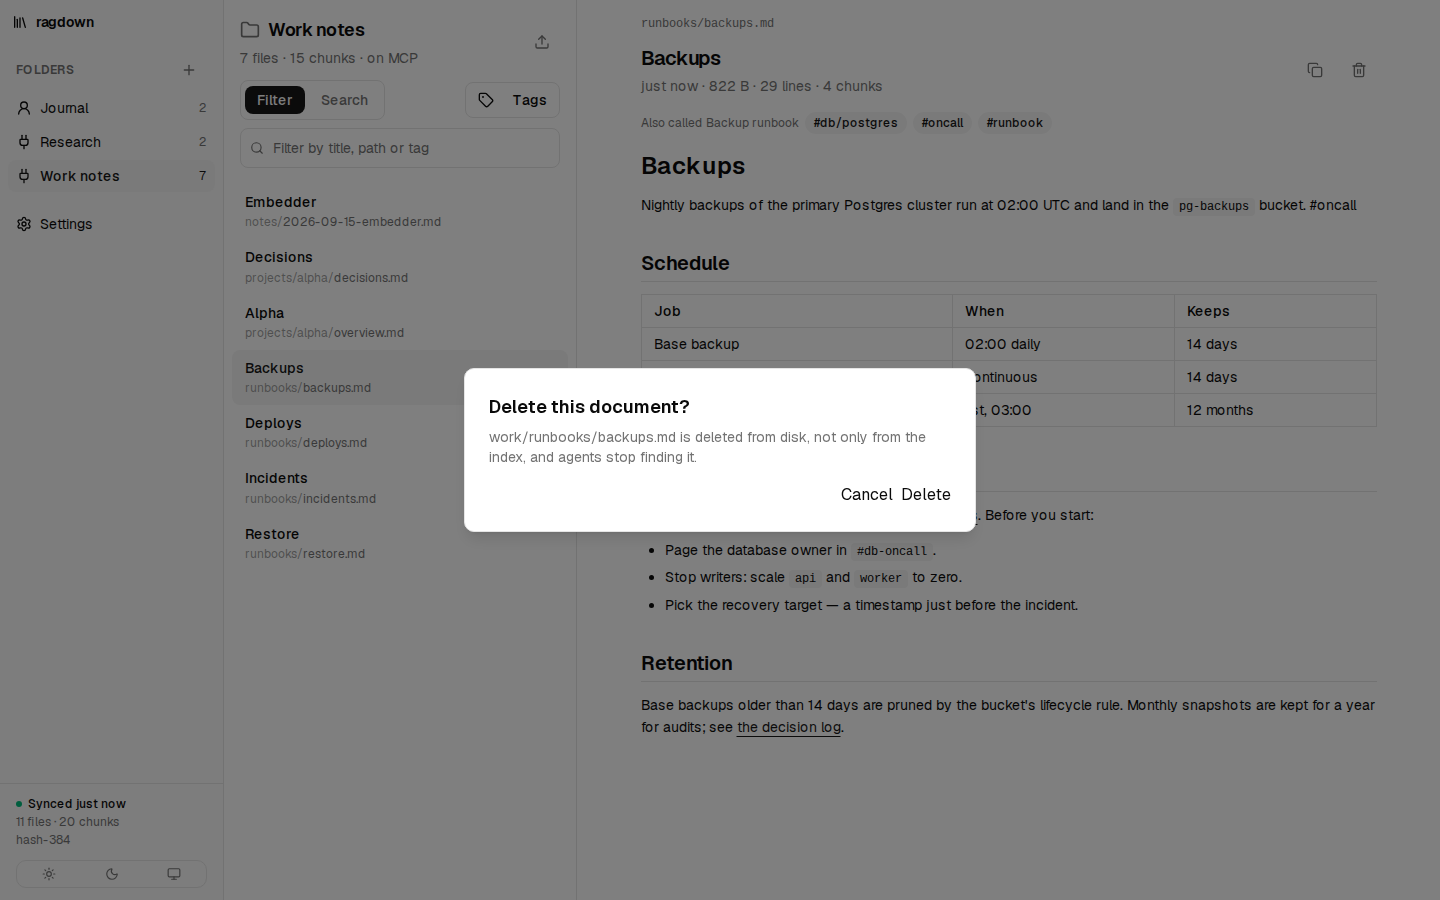
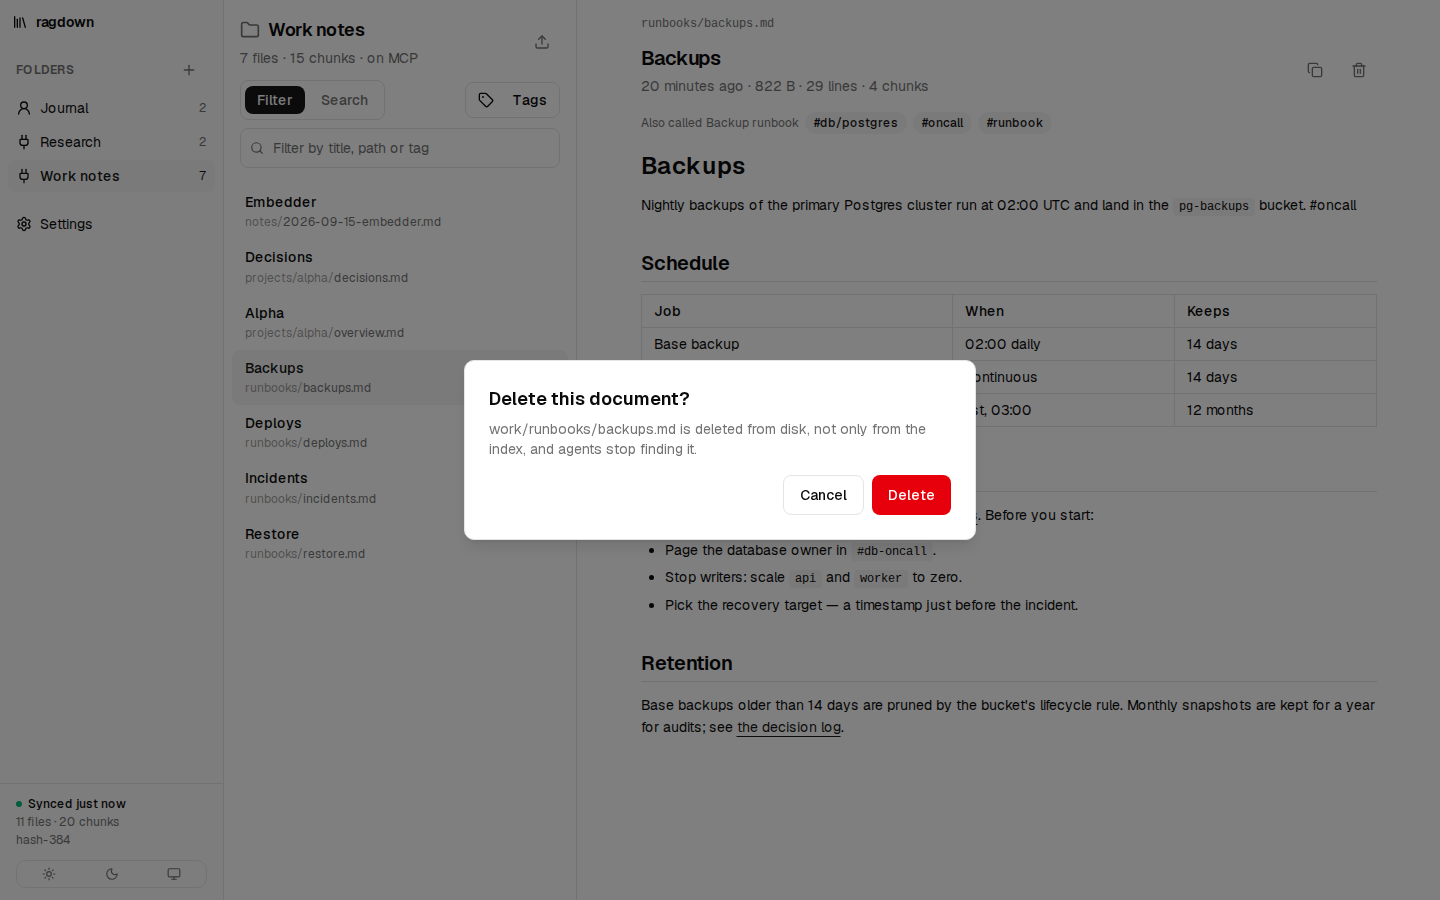
fix(web): stack the upload drop zone's text, and style confirm dialog buttons
The file picker is re-added from the cubeui registry, whose drop zone is a
flex column; the old copy had `flex-col` without `flex`, so the label and
hint ran together on one line.

Button's `asChild` branch handed Slot the icon-colour provider instead of
the caller's element, so the classes never reached it and the confirm
dialog's Cancel and Delete rendered as plain text. It now slots the
children directly. The same bug is still in cubeui's button.

Upload and delete screenshots on the site are retaken.

Changed region(s): [[0.3125, 0.3733, 0.6875, 0.5289], [0.3125, 0.5289, 0.6875, 0.6222], [0.4375, 0.0933, 0.625, 0.1244]]

diff --git a/web/src/components/ui/file-picker.tsx b/web/src/components/ui/file-picker.tsx
@@ -1,34 +1,98 @@
-import { useRef, useState } from "react";
-import type { FilePickerProps } from "@/components/ui/file-picker-base";
+/**
+ * Copied from `registry/ui/file-picker.web.tsx` by `scripts/rn2web`.
+ * Do not edit — edit the source and re-run `npm run compile`.
+ *
+ * This is level 4 of the plan: the item has a hand-written web half, so nothing was generated. The
+ * same passes still ran over it, and for a file already written against the DOM they find nothing
+ * to do beyond pointing its sibling imports at the web tree. That is deliberate — running one
+ * pipeline over the whole output tree is what guarantees a hand-written half and a compiled one
+ * speak the same prop vocabulary, instead of the two drifting where nobody is looking.
+ */
+
+/**
+ * The web file picker: a drop zone, or a button, over a hidden `<input type="file">`.
+ *
+ * Both are DOM-only, which is why this is a `.web.tsx`. The caller never sees a
+ * `File` — it gets the decoded text — so the calling screen stays shared.
+ */
+import { type DragEvent, type ReactNode, useRef, useState } from "react";
+import { buttonTextVariants, buttonVariants } from "@/components/ui/button";
+import {
+  acceptsFile,
+  type FilePickerButtonProps,
+  type FilePickerProps,
+} from "@/components/ui/file-picker-base";
 import { Upload } from "@/components/ui/icons";
 import { cn } from "@/lib/utils";
 
-export function FilePicker({ onPick, accept, label, hint }: FilePickerProps) {
+type PickOptions = Pick<FilePickerProps, "onPick" | "onPickMany" | "accept" | "multiple">;
+
+/**
+ * The picking, apart from the look: the hidden input, what a click and a drop
+ * do, and whether something is being dragged over. The zone and the button are
+ * two faces on this one hook, so they cannot disagree about what a pick is.
+ */
+function useFilePick({ onPick, onPickMany, accept, multiple }: PickOptions) {
   const inputRef = useRef<HTMLInputElement>(null);
   const [dragging, setDragging] = useState(false);
 
-  async function read(file: File) {
-    onPick(await file.text(), file.name);
+  async function take(list: FileList | null | undefined) {
+    // Copied before the first `await`: the input's `FileList` is emptied when its
+    // value is reset, and a drop's is gone once the event returns. `accept` is
+    // only advisory on the dialog and not applied to a drop at all, so it is
+    // applied here, to both.
+    const allowed = Array.from(list ?? []).filter((file) => acceptsFile(accept, file));
+    const files = multiple ? allowed : allowed.slice(0, 1);
+    if (files.length === 0) return;
+    const picked = await Promise.all(
+      files.map(async (file) => ({ text: await file.text(), name: file.name })),
+    );
+    if (onPickMany) onPickMany(picked);
+    else for (const file of picked) onPick?.(file.text, file.name);
   }
+
+  const trigger = {
+    type: "button" as const,
+    onClick: () => inputRef.current?.click(),
+    onDragOver: (e: DragEvent) => {
+      e.preventDefault();
+      setDragging(true);
+    },
+    onDragLeave: () => setDragging(false),
+    onDrop: (e: DragEvent) => {
+      e.preventDefault();
+      setDragging(false);
+      void take(e.dataTransfer.files);
+    },
+  };
+
+  const input = (
+    <input
+      ref={inputRef}
+      type="file"
+      {...(accept ? { accept } : {})}
+      {...(multiple ? { multiple: true } : {})}
+      className="hidden"
+      onChange={(e) => {
+        void take(e.target.files);
+        // Allow re-selecting the same file after a reset.
+        e.target.value = "";
+      }}
+    />
+  );
+
+  return { trigger, input, dragging };
+}
+
+export function FilePicker({ label, hint, ...options }: FilePickerProps) {
+  const { trigger, input, dragging } = useFilePick(options);
 
   return (
     <>
       <button
-        type="button"
-        onClick={() => inputRef.current?.click()}
-        onDragOver={(e) => {
-          e.preventDefault();
-          setDragging(true);
-        }}
-        onDragLeave={() => setDragging(false)}
-        onDrop={(e) => {
-          e.preventDefault();
-          setDragging(false);
-          const file = e.dataTransfer.files?.[0];
-          if (file) void read(file);
-        }}
+        {...trigger}
         className={cn(
-          "w-full flex-col items-center gap-2 rounded-xl border-2 border-dashed px-6 py-12 text-center transition-colors",
+          "flex w-full flex-col items-center gap-2 rounded-xl border-2 border-dashed px-6 py-12 text-center transition-colors",
           dragging
             ? "border-primary bg-primary/5"
             : "border-muted-foreground/25 hover:border-muted-foreground/50",
@@ -38,18 +102,48 @@ export function FilePicker({ onPick, accept, label, hint }: FilePickerProps) {
         <span className="cube-rn-text font-medium text-sm">{label}</span>
         {hint ? <span className="cube-rn-text text-xs text-muted-foreground">{hint}</span> : null}
       </button>
-      <input
-        ref={inputRef}
-        type="file"
-        {...(accept ? { accept } : {})}
-        className="hidden"
-        onChange={(e) => {
-          const file = e.target.files?.[0];
-          if (file) void read(file);
-          // Allow re-selecting the same file after a reset.
-          e.target.value = "";
-        }}
-      />
+      {input}
+    </>
+  );
+}
+
+export function FilePickerButton({
+  label,
+  icon = <Upload />,
+  variant,
+  size,
+  className,
+  ...options
+}: FilePickerButtonProps) {
+  const { trigger, input, dragging } = useFilePick(options);
+  // At an icon size the square has no room for words, so `label` is the name alone.
+  const iconOnly = typeof size === "string" && size.startsWith("icon");
+  let content: ReactNode = icon;
+  if (!iconOnly) {
+    content = (
+      <>
+        {icon}
+        <span className={cn("cube-rn-text", buttonTextVariants({ variant, size }))}>{label}</span>
+      </>
+    );
+  }
+
+  return (
+    <>
+      {/* `buttonVariants` on a plain `<button>` rather than `Button`: in an Expo web app `Button`
+          is a `Pressable`, which drops the drag handlers a drop needs. */}
+      <button
+        {...trigger}
+        aria-label={label}
+        className={cn(
+          buttonVariants({ variant, size }),
+          dragging && "ring-2 ring-primary ring-offset-2 ring-offset-background",
+          className,
+        )}
+      >
+        {content}
+      </button>
+      {input}
     </>
   );
 }

diff --git a/web/src/components/ui/file-picker-base.ts b/web/src/components/ui/file-picker-base.ts
@@ -1,12 +1,104 @@
-export type FilePickerProps = {
+/**
+ * The contract `file-picker.tsx` (native) and `file-picker.web.tsx` implement.
+ *
+ * Its own module for the usual reason — Metro resolves `./file-picker` to the
+ * `.web.tsx` file on web, so that file cannot import the shared pieces from
+ * `./file-picker` without importing itself.
+ */
+import type { ReactNode } from "react";
+import type { ButtonProps } from "@/components/ui/button";
+
+/** One picked file: its decoded text and its name. */
+export type PickedFile = { text: string; name: string };
+
+type FilePickerCommonProps = {
   /**
-   * Handed the picked file's decoded text, never the `File` object itself.
-   * `File` is DOM-only, so a contract carrying one could not be implemented on
-   * native — and the calling screen only ever wants the text anyway.
+   * e.g. `"application/json,.json"`. Advisory on the dialog, which lets the user
+   * pick "All files", so the web half also applies it to what comes back — to a
+   * pick and to a drop alike. A file that does not match is skipped, never read.
    */
-  onPick: (text: string, fileName: string) => void;
-  /** e.g. `"application/json,.json"`. Web only — advisory on the dialog. */
   accept?: string | undefined;
+  /**
+   * Take several files per pick: the dialog allows a multi-select and a drop
+   * keeps every file. Off, a pick is one file and a drop keeps the first one
+   * `accept` allows.
+   */
+  multiple?: boolean | undefined;
+  /** What is being picked. On the zone it is the visible heading; on the button, the accessible name. */
   label: string;
-  hint?: string | undefined;
 };
+
+/**
+ * One of `onPick` and `onPickMany` is required, and both may be given.
+ * `onPickMany` wins when it is there; `onPick` alone is called once per file, so
+ * a caller that handles files one at a time needs nothing new to take several.
+ */
+type FilePickerCallbacks =
+  | {
+      /**
+       * Handed the picked file's decoded text, never the `File` object itself.
+       * `File` is DOM-only, so a contract carrying one could not be implemented on
+       * native — and the calling screen only ever wants the text anyway. With
+       * `multiple` and no `onPickMany`, called once per file, in pick order.
+       */
+      onPick: (text: string, fileName: string) => void;
+      /**
+       * Called once per pick with every file in it, in pick order — one file
+       * without `multiple`. Given, `onPick` is not called at all.
+       */
+      onPickMany?: ((files: PickedFile[]) => void) | undefined;
+    }
+  | {
+      onPick?: ((text: string, fileName: string) => void) | undefined;
+      onPickMany: (files: PickedFile[]) => void;
+    };
+
+export type FilePickerProps = FilePickerCommonProps &
+  FilePickerCallbacks & {
+    /** The zone's second line, under `label`: what to drop, or where it goes. */
+    hint?: string | undefined;
+  };
+
+/**
+ * The same picker as a `Button`, for where a drop zone does not fit — a page
+ * header's actions, a toolbar. It still takes a drop onto itself.
+ *
+ * A component of its own rather than a `variant="button"` on `FilePicker`,
+ * because `variant` and `size` are the `Button`'s, forwarded as they are, and a
+ * prop cannot mean both the button's look and which of two shapes to draw.
+ */
+export type FilePickerButtonProps = FilePickerCommonProps &
+  FilePickerCallbacks &
+  Pick<ButtonProps, "variant" | "size"> & {
+    /**
+     * Drawn before the label, or alone at an `icon*` size, where `label` is only
+     * the accessible name. Pass a bare `<Upload />`; the button sizes and
+     * colours it. Defaults to the upload icon.
+     */
+    icon?: ReactNode | undefined;
+    className?: string | undefined;
+  };
+
+/**
+ * Whether `file` is one `accept` allows, by the rules the `<input accept>`
+ * attribute uses: `.ext` matches the name's ending, `type/*` the MIME type's
+ * first half, and anything else the whole MIME type — all ignoring case. An
+ * empty or absent `accept` allows everything.
+ *
+ * Here rather than in the web half so the rule has one home. It takes a name
+ * and a type rather than a `File`, which native does not have.
+ */
+export function acceptsFile(accept: string | undefined, file: { name: string; type: string }) {
+  const tokens = (accept ?? "")
+    .split(",")
+    .map((token) => token.trim().toLowerCase())
+    .filter(Boolean);
+  if (tokens.length === 0) return true;
+  const name = file.name.toLowerCase();
+  const type = file.type.toLowerCase();
+  return tokens.some((token) => {
+    if (token.startsWith(".")) return name.endsWith(token);
+    if (token.endsWith("/*")) return type.startsWith(token.slice(0, -1));
+    return type === token;
+  });
+}

diff --git a/web/src/components/ui/button.tsx b/web/src/components/ui/button.tsx
@@ -134,7 +134,9 @@ const Button = React.forwardRef<HTMLButtonElement, ButtonProps>(
           {...({ ...props, disabled } as unknown as React.HTMLAttributes<HTMLElement>)}
           ref={ref as unknown as React.Ref<HTMLElement>}
         >
-          {body}
+          {/* The caller's element itself, not `body`: `Slot` merges the classes onto its one
+              child, and handed the icon-colour provider it styled that and dropped them. */}
+          {children}
         </Slot.Root>
       );
     }
